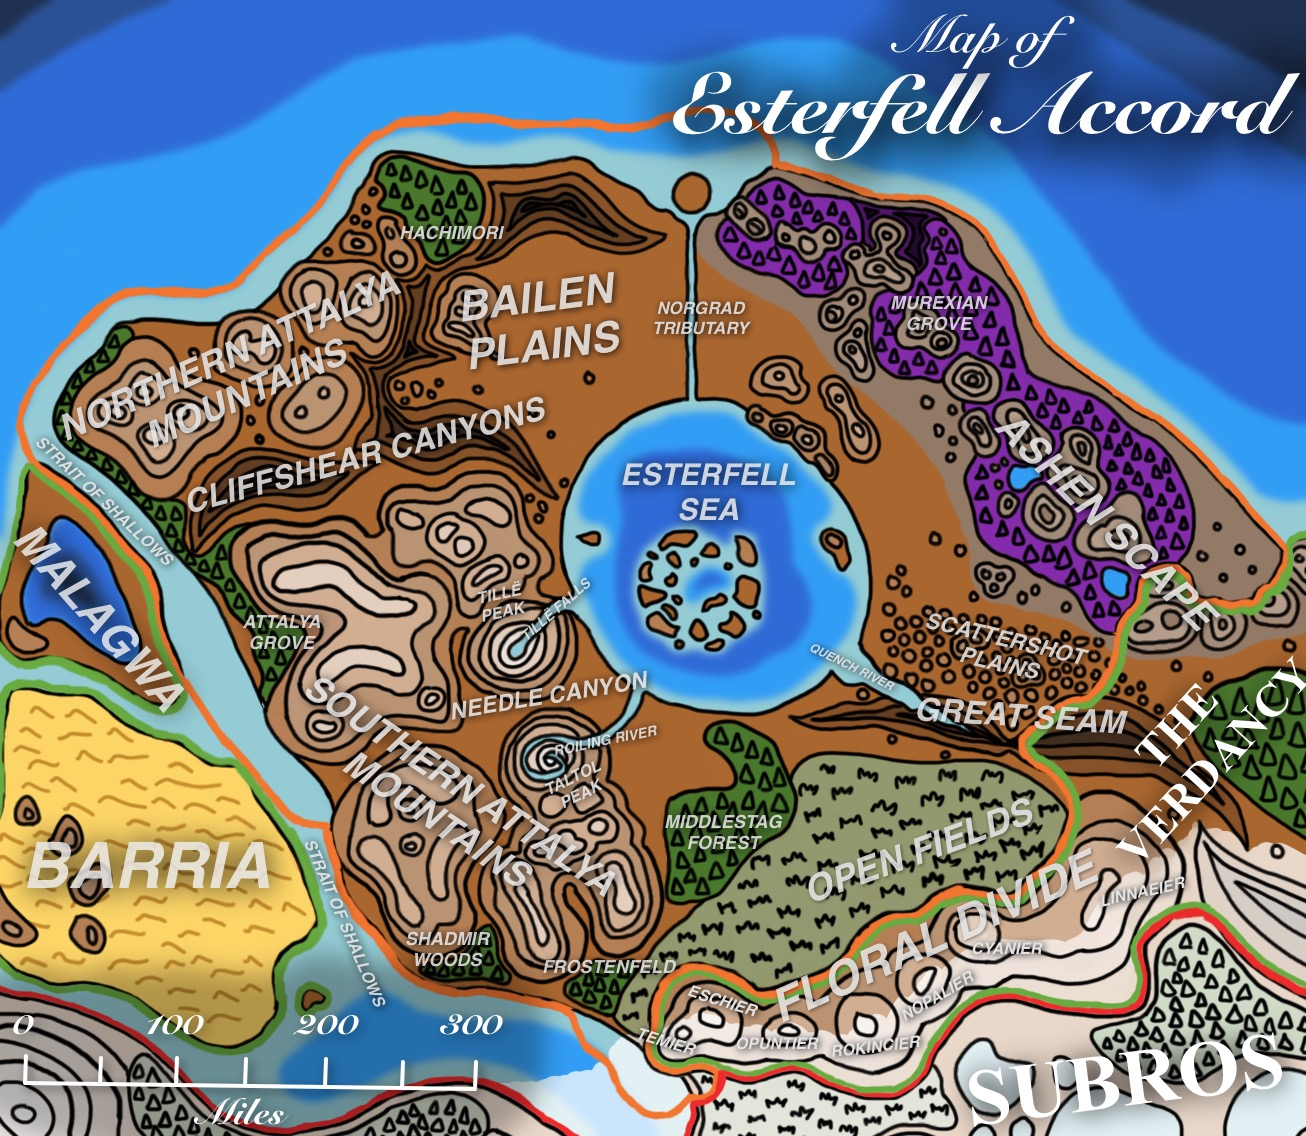
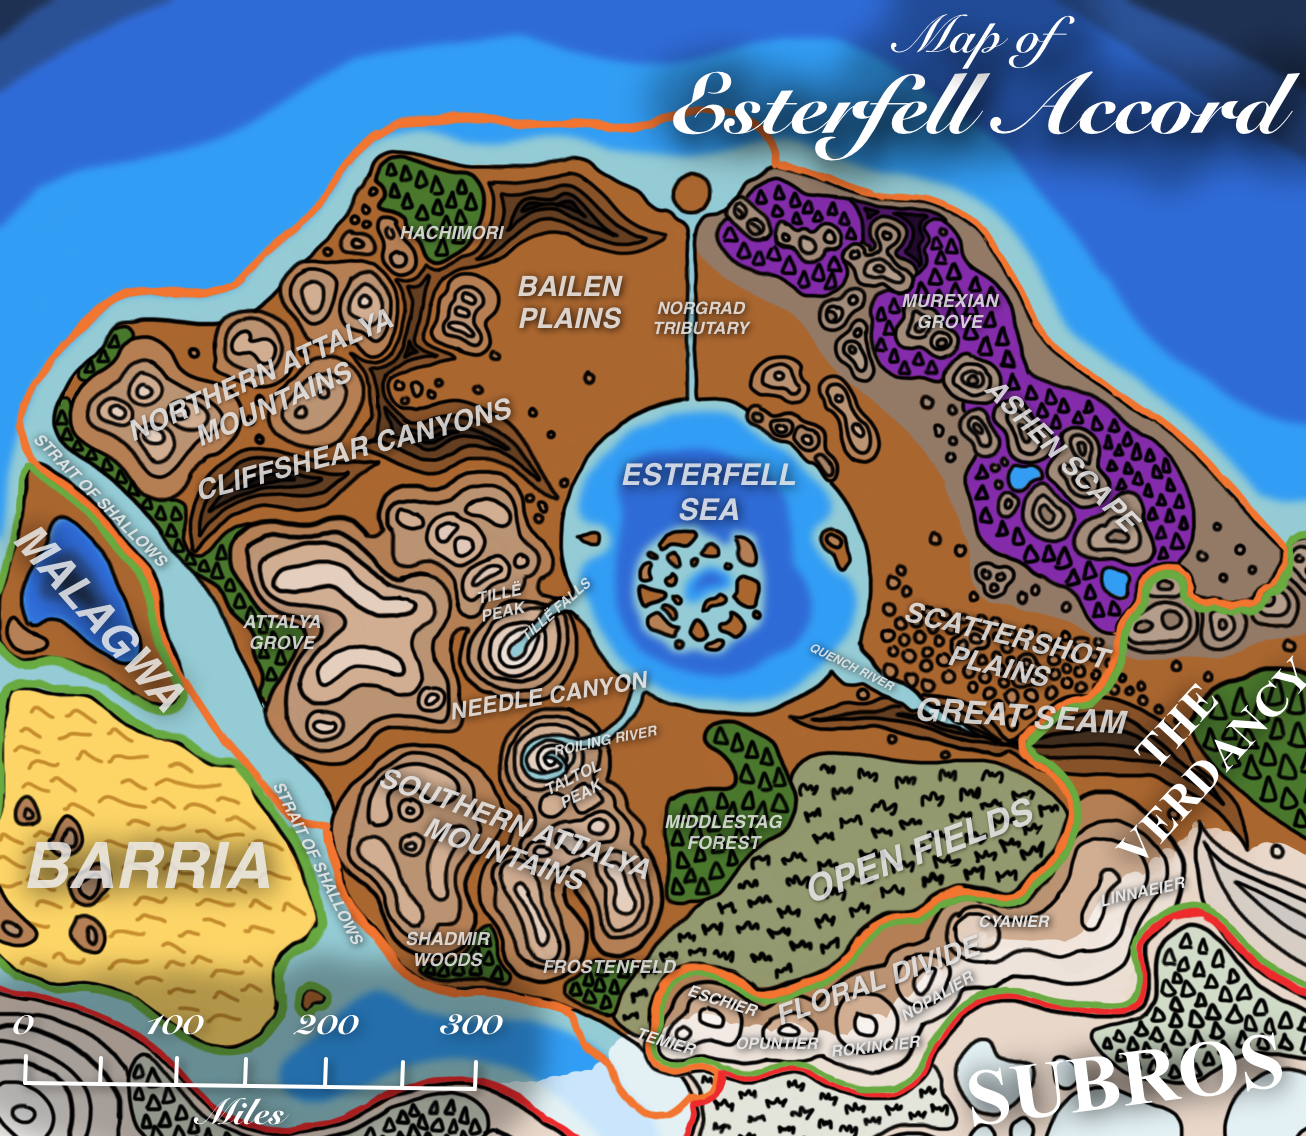
updated place names
- updated town names and associated maps

diff --git a/docs/ch-4-esterfell-gazetteer/esterfell/coasts/index.md b/docs/ch-4-esterfell-gazetteer/esterfell/coasts/index.md
@@ -2,4 +2,4 @@
 
 ## Strait of Shallows
 
-The **Strait of Shallows** is a channel dividing [Lenya](../lenya/) from [Malagwa](../malagwa.md) and [Barria](../barria.md) along the western side of [Esterfell](../). Ships of the [Esterfell Accord](../../ch-2-people-of-mote/societies/esterfell-accord/) use the Strait for commerce between [Perlipont](../../ch-2-people-of-mote/societies/esterfell-accord/perlipont.md) and [Barrincress](../../ch-2-people-of-mote/societies/esterfell-accord/barrincress.md) in order to avoid taking the more treacherous paths of the [Attalya Mountains](../lenya/attalya-mountains/) by foot or horse.
+The **Strait of Shallows** is a channel dividing [Lenya](../lenya/) from [Malagwa](../malagwa.md) and [Barria](../barria.md) along the western side of [Esterfell](../). Ships of the [Esterfell Accord](../../ch-2-people-of-mote/societies/esterfell-accord/) use the Strait for commerce between [Perlipont](../../ch-2-people-of-mote/societies/esterfell-accord/perlipont.md) and [Barrinview](../../ch-2-people-of-mote/societies/esterfell-accord/barrinview.md) in order to avoid taking the more treacherous paths of the [Attalya Mountains](../lenya/attalya-mountains/) by foot or horse.

diff --git a/docs/ch-2-people-of-mote/societies/esterfell-accord/gracia.md b/docs/ch-2-people-of-mote/societies/esterfell-accord/gracia.md
@@ -1,3 +1,3 @@
 # Gracia
 
-**Gracia** is a town on the west coast of [Esterfell Sea](../../../ch-4-esterfell-gazetteer/esterfell/lenya/esterfell-sea/). The [Road of Commerce](road-of-commerce.md) connects Gracia to [Norgrad](norgrad.md) to the north, [Xunderin](xunderin.md) through [Attalya Mountains](../../../ch-4-esterfell-gazetteer/esterfell/lenya/attalya-mountains), and [Bridgeport](bridgeport/) on the island of [Kashio](../../../ch-4-esterfell-gazetteer/esterfell/lenya/esterfell-sea/kashio.md).
+**Gracia** is a town on the west coast of [Esterfell Sea](../../../ch-4-esterfell-gazetteer/esterfell/lenya/esterfell-sea/). The [Road of Commerce](road-of-commerce.md) connects Gracia to [Norgrad](norgrad.md) to the north, [Sunderin](sunderin.md) through [Attalya Mountains](../../../ch-4-esterfell-gazetteer/esterfell/lenya/attalya-mountains), and [Bridgeport](bridgeport/) on the island of [Kashio](../../../ch-4-esterfell-gazetteer/esterfell/lenya/esterfell-sea/kashio.md).

diff --git a/docs/ch-2-people-of-mote/societies/esterfell-accord/perlipont.md b/docs/ch-2-people-of-mote/societies/esterfell-accord/perlipont.md
@@ -1,3 +1,3 @@
 # Perlipont
 
-**Perlipont** is a town on the west coast of [Lenya](../../../ch-4-esterfell-gazetteer/esterfell/lenya/) within the Southern [Attalya Mountains](../../../ch-4-esterfell-gazetteer/esterfell/lenya/attalya-mountains/). Ship routes connect the town with [Barrincress](barrincress.md) to the south via the [Strait of Shallows](../../../ch-4-esterfell-gazetteer/esterfell/coasts/index.md#strait-of-shallows), and an old road allows access to [Fleuderton](fleuderton/) to the north.
+**Perlipont** is a town on the west coast of [Lenya](../../../ch-4-esterfell-gazetteer/esterfell/lenya/) within the Southern [Attalya Mountains](../../../ch-4-esterfell-gazetteer/esterfell/lenya/attalya-mountains/). Ship routes connect the town with [Barrinview](barrinview.md) to the south via the [Strait of Shallows](../../../ch-4-esterfell-gazetteer/esterfell/coasts/index.md#strait-of-shallows), and an old road allows access to [Fleuderton](fleuderton/) to the north.

diff --git a/docs/ch-2-people-of-mote/societies/esterfell-accord/bathys-pass.md b/docs/ch-2-people-of-mote/societies/esterfell-accord/bathys-pass.md
@@ -1,3 +1,3 @@
 # Bathys Pass
 
-**Bathys Pass** is a town nestled in the Southern [Attalya Mountains](../../../ch-4-esterfell-gazetteer/esterfell/lenya/attalya-mountains/) at the western base of [Taltol Peak](../../../ch-4-esterfell-gazetteer/esterfell/lenya/attalya-mountains/taltol-peak/). It sits at a four-way crossroad between [Xunderin](xunderin.md) to the north, [Barrincress](barrincress.md) to the west, [Needledale](needledale.md) to the northeast, and [Mirmont](mirmont.md) to the south.
+**Bathys Pass** is a town nestled in the Southern [Attalya Mountains](../../../ch-4-esterfell-gazetteer/esterfell/lenya/attalya-mountains/) at the western base of [Taltol Peak](../../../ch-4-esterfell-gazetteer/esterfell/lenya/attalya-mountains/taltol-peak/). It sits at a four-way crossroad between [Sunderin](sunderin.md) to the north, [Barrinview](barrinview.md) to the west, [Needledale](needledale.md) to the northeast, and [Mirmont](mirmont.md) to the south.

diff --git a/docs/ch-2-people-of-mote/societies/esterfell-accord/hewpass.md b/docs/ch-2-people-of-mote/societies/esterfell-accord/hewpass.md
@@ -1,3 +1,3 @@
 # Hewpass
 
-**Hewpass** is a small trading output marking the northern entry into the Southern [Attalya Mountains](../../../ch-4-esterfell-gazetteer/esterfell/lenya/attalya-mountains/). The [Road of Commerce](road-of-commerce.md) connects Hewpass to [Xunderin](xunderin.md) to the south and [Fleuderton](fleuderton/) to the southwest.
+**Hewpass** is a small trading output marking the northern entry into the Southern [Attalya Mountains](../../../ch-4-esterfell-gazetteer/esterfell/lenya/attalya-mountains/). The [Road of Commerce](road-of-commerce.md) connects Hewpass to [Sunderin](sunderin.md) to the south and [Fleuderton](fleuderton/) to the southwest.

diff --git a/docs/ch-2-people-of-mote/societies/esterfell-accord/barrinview.md b/docs/ch-2-people-of-mote/societies/esterfell-accord/barrinview.md
@@ -1,0 +1,3 @@
+# Barrinview
+
+**Barrinview** is a town in the Southern [Attalya Mountains](../../../ch-4-esterfell-gazetteer/esterfell/lenya/attalya-mountains/). The town sits across from [Barria](../../../ch-4-esterfell-gazetteer/esterfell/barria.md) on the [Strait of Shallows](../../../ch-4-esterfell-gazetteer/esterfell/coasts/index.md#strait-of-shallows), by which ships can access [Perlipont](perlipont.md) to the north. A single mountain road connects the town with [Bathys Pass](bathys-pass.md) to the east.

diff --git a/docs/ch-2-people-of-mote/societies/esterfell-accord/sunderin.md b/docs/ch-2-people-of-mote/societies/esterfell-accord/sunderin.md
@@ -1,0 +1,3 @@
+# Sunderin
+
+**Sunderin** is a trading outpost nestled deep within the [Attalya Mountains](../../../ch-4-esterfell-gazetteer/esterfell/lenya/attalya-mountains/). The [Road of Commerce](road-of-commerce.md) connects Sunderin to [Hewpass](hewpass.md) in the north, [Gracia](gracia.md) to the east, and [Bathys Pass](bathys-pass.md) to the south.
